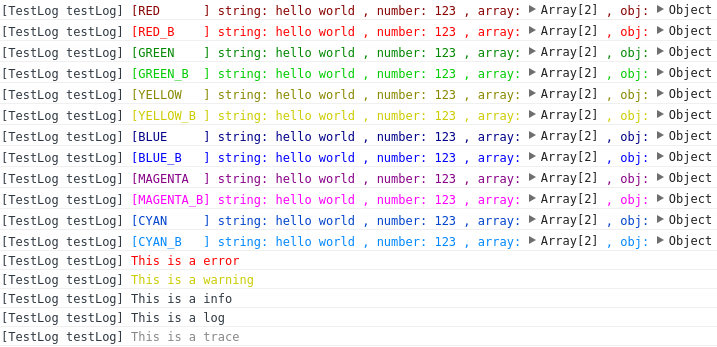
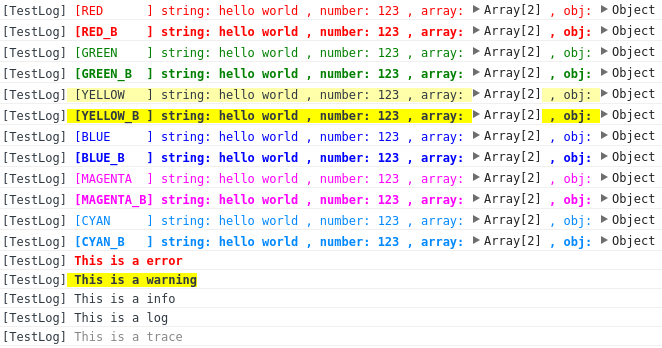
Modify colors.

Changed region(s): [[0.0, 0.0, 0.997, 1.0]]

diff --git a/index.js b/index.js
@@ -98,18 +98,18 @@ class LogWrapper {
     transColor2Browser(color) {
         if (env == 'browser') {
             switch (color) {
-                case Logger.RED       : return 'color: #800';
-                case Logger.RED_B     : return 'color: #f00';
-                case Logger.GREEN     : return 'color: #080';
-                case Logger.GREEN_B   : return 'color: #0c0';
-                case Logger.YELLOW    : return 'color: #880';
-                case Logger.YELLOW_B  : return 'color: #cc0';
-                case Logger.BLUE      : return 'color: #008';
-                case Logger.BLUE_B    : return 'color: #00f';
-                case Logger.MAGENTA   : return 'color: #808';
-                case Logger.MAGENTA_B : return 'color: #f0f';
-                case Logger.CYAN      : return 'color: #04c';
-                case Logger.CYAN_B    : return 'color: #08f';
+                case Logger.RED       : return 'color: red';
+                case Logger.RED_B     : return 'color: red; font-weight:bold;';
+                case Logger.GREEN     : return 'color: green';
+                case Logger.GREEN_B   : return 'color: green; font-weight:bold;';
+                case Logger.YELLOW    : return 'background: #ffa';
+                case Logger.YELLOW_B  : return 'background: #ff0; font-weight:bold;';
+                case Logger.BLUE      : return 'color: blue';
+                case Logger.BLUE_B    : return 'color: blue; font-weight:bold;';
+                case Logger.MAGENTA   : return 'color: magenta';
+                case Logger.MAGENTA_B : return 'color: magenta; font-weight:bold;';
+                case Logger.CYAN      : return 'color: #08f';
+                case Logger.CYAN_B    : return 'color: #08f; font-weight:bold;';
                 case Logger.DARK      : return 'color: #888';
                 default               : return 'color: #888';
             }

diff --git a/README.md b/README.md
@@ -43,6 +43,8 @@ A cross platform(node and webpacked-browser) colorful log for js.
 
 ```
 
+Note: because yellow in white background is hard to be seen, So it's set to be inverted.
+
 # Demo
 
 In browser:
